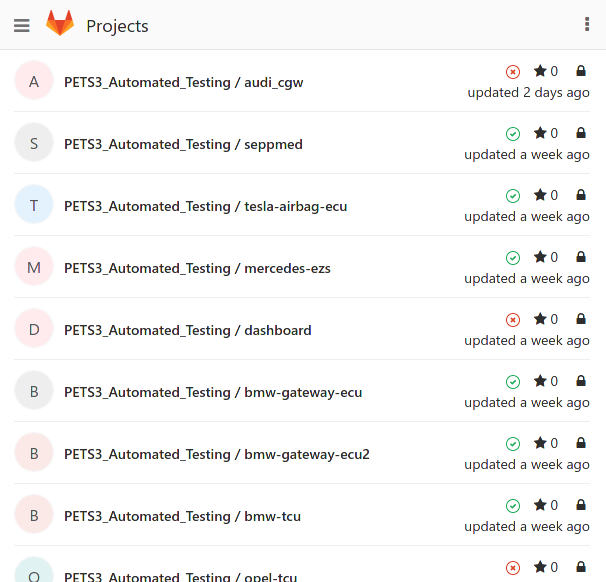
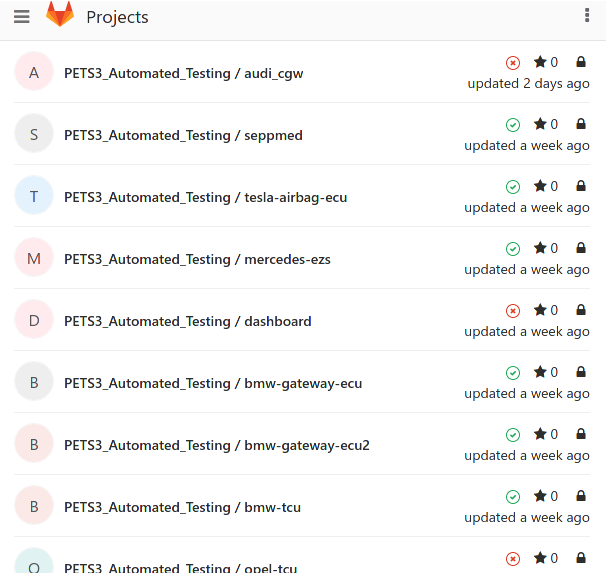
Trim and pad images

diff --git a/README.md b/README.md
@@ -7,3 +7,9 @@ Since I use the [minted](https://ctan.org/pkg/minted) package for Syntax highlig
 ### Getting precompiled PDF
 
 The PDF file of the latest code is automatically generated and uploaded to: https://andreas-korb.de/downloads/my-bachelor-thesis.pdf
+
+## Cool commands
+
+Trims all images to its content but pads it with one pixel line on the top and bottom. The padding is needed, because sometimes the `\includegraphics` command is trimming a pixel line.
+
+`mogrify -trim -gravity north -splice 0x1 -gravity south -splice 0x1 *.png`
